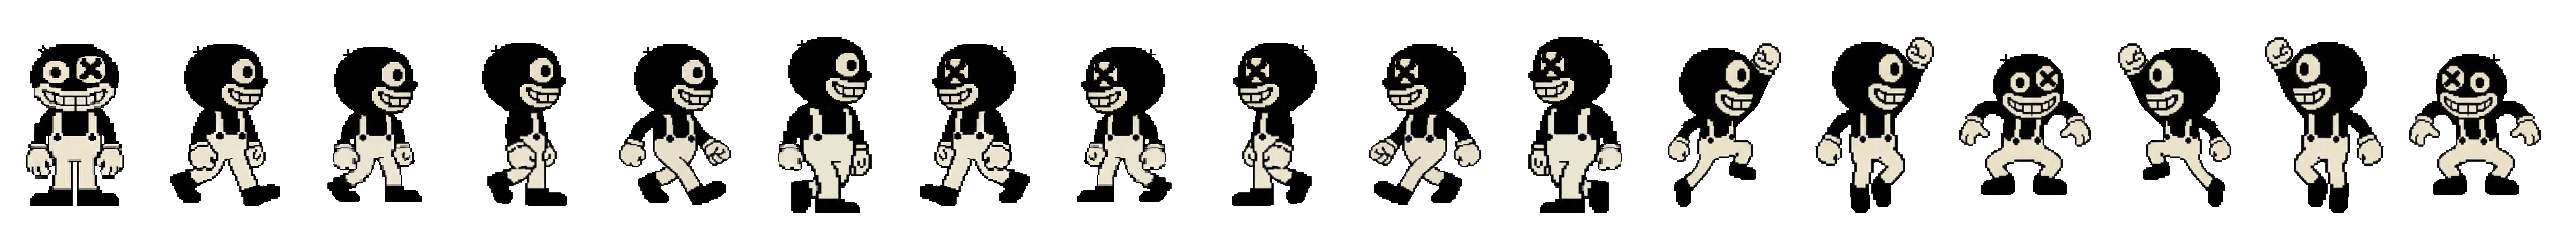
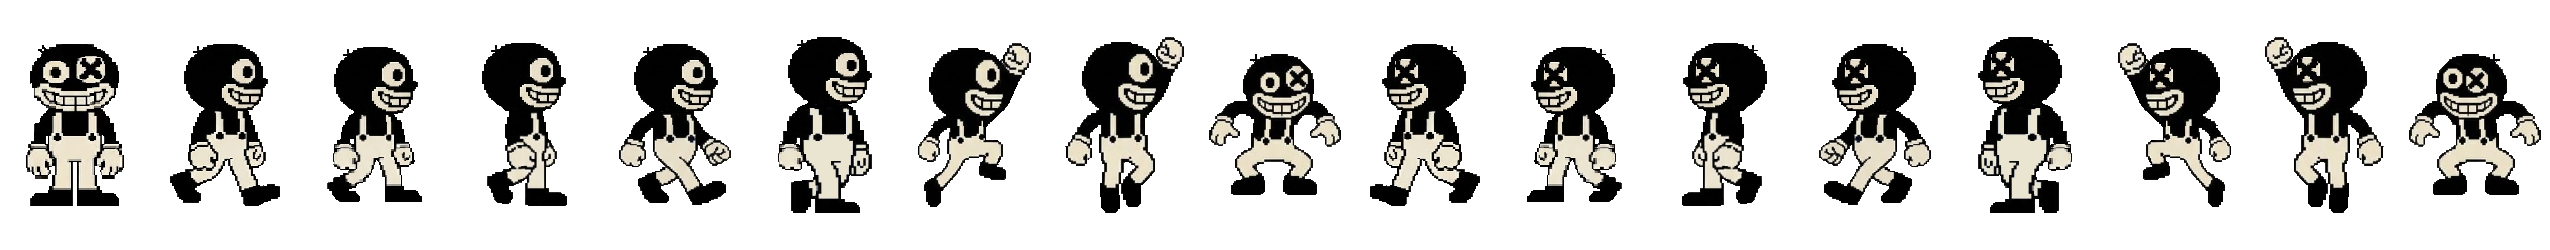
movimiento fluido del protagonista

diff --git a/core/src/main/java/io/github/escuela_tecnica_n35/entidades/Jugador.java b/core/src/main/java/io/github/escuela_tecnica_n35/entidades/Jugador.java
@@ -1,28 +1,44 @@
 package io.github.escuela_tecnica_n35.entidades;
 
-// herramientas que se encargan de "dibujar", recortar y mostrar los frames
 import com.badlogic.gdx.graphics.Texture;
 import com.badlogic.gdx.graphics.g2d.Animation;
 import com.badlogic.gdx.graphics.g2d.SpriteBatch;
 import com.badlogic.gdx.graphics.g2d.TextureRegion;
 
 public class Jugador extends Entidad {
-	
-	private int monedas;
-	private Inventario inventario;
-	private Item objetoActivo;
-	
-	// Variables para la animación de LibGDX
-		private Animation<TextureRegion> caminataAnimacion;
-		private float stateTime = 0f;
-	
-	public Jugador(String nombre, Posicion posicion, int vidaMax, float velocidad, int daño) {
-		
+
+    private int monedas;
+    private Inventario inventario;
+    private Item objetoActivo;
+
+    // Frames individuales
+    private TextureRegion frameQuieto;
+    private TextureRegion frameSaltoDerecha;
+    private TextureRegion frameCaidaDerechaInicio;
+    private TextureRegion frameCaidaDerechaEstatico;
+
+    private TextureRegion frameSaltoIzquierda;
+    private TextureRegion frameCaidaIzquierdaInicio;
+    private TextureRegion frameCaidaIzquierdaEstatico;
+
+    // Animaciones
+    private Animation<TextureRegion> animCaminarDerecha;
+    private Animation<TextureRegion> animCaminarIzquierda;
+
+    private float stateTime = 0f;
+    private float tiempoCaida = 0f; // Para controlar la transición durante la caída
+
+    // Estados
+    private boolean moviendose = false;
+    private boolean mirandoIzquierda = false;
+    private boolean enElPiso = true;
+    private float velocidadY = 0f;
+
+    public Jugador(String nombre, Posicion posicion, int vidaMax, float velocidad, int daño) {
         super(nombre, posicion, vidaMax, velocidad, daño);
         this.monedas = 0;
         this.inventario = new Inventario();
-        
-     // Cargar y configurar la animación del Spritesheet
+
         Texture walkSheet = new Texture("frames.png");
         int FRAME_COLS = 17;
         int FRAME_ROWS = 1;
@@ -33,78 +49,132 @@ public class Jugador extends Entidad {
             walkSheet.getHeight() / FRAME_ROWS
         );
 
-        TextureRegion[] walkFrames = new TextureRegion[FRAME_COLS];
-        for (int j = 0; j < FRAME_COLS; j++) {
-            walkFrames[j] = tmp[0][j];
+        // Frame 0: Quieto
+        frameQuieto = tmp[0][0];
+
+        // Frames 1 a 5: Caminata Derecha (5 frames)
+        TextureRegion[] framesDerecha = new TextureRegion[5];
+        for (int i = 0; i < 5; i++) {
+            framesDerecha[i] = tmp[0][i + 1];
+        }
+        animCaminarDerecha = new Animation<TextureRegion>(0.09f, framesDerecha);
+
+        // Frame 6: Salto Derecha
+        frameSaltoDerecha = tmp[0][6];
+
+        // Frames 7 y 8: Caída Derecha (Instante inicial vs Estático)
+        frameCaidaDerechaInicio = tmp[0][7];
+        frameCaidaDerechaEstatico = tmp[0][8];
+
+        // Frames 9 a 13: Caminata Izquierda (5 frames)
+        TextureRegion[] framesIzquierda = new TextureRegion[5];
+        for (int i = 0; i < 5; i++) {
+            framesIzquierda[i] = tmp[0][i + 9];
+        }
+        animCaminarIzquierda = new Animation<TextureRegion>(0.09f, framesIzquierda);
+
+        // Frame 14: Salto Izquierda
+        frameSaltoIzquierda = tmp[0][14];
+
+        // Frames 15 y 16: Caída Izquierda (Instante inicial vs Estático)
+        frameCaidaIzquierdaInicio = tmp[0][15];
+        frameCaidaIzquierdaEstatico = tmp[0][16];
+    }
+
+    public void setEstado(boolean moviendose, boolean mirandoIzquierda, boolean enElPiso, float velocidadY) {
+        if (this.enElPiso != enElPiso || this.mirandoIzquierda != mirandoIzquierda) {
+            stateTime = 0f;
+            tiempoCaida = 0f;
+        }
+        
+        this.moviendose = moviendose;
+        this.mirandoIzquierda = mirandoIzquierda;
+        this.enElPiso = enElPiso;
+        this.velocidadY = velocidadY;
+    }
+
+    public void render(SpriteBatch batch, float delta) {
+        TextureRegion frameActual;
+
+        if (!enElPiso) {
+            // EN EL AIRE
+            if (velocidadY >= 0) {
+                // Impulso hacia arriba: Frame de Salto
+                tiempoCaida = 0f;
+                frameActual = mirandoIzquierda ? frameSaltoIzquierda : frameSaltoDerecha;
+            } else {
+                // Descendiendo
+                tiempoCaida += delta;
+
+                // Sostiene el primer frame de caída por 0.12 segundos y luego pasa al estático
+                if (tiempoCaida < 0.3f) {
+                    frameActual = mirandoIzquierda ? frameCaidaIzquierdaInicio : frameCaidaDerechaInicio;
+                } else {
+                    frameActual = mirandoIzquierda ? frameCaidaIzquierdaEstatico : frameCaidaDerechaEstatico;
+                }
+            }
+        } else if (moviendose) {
+            // EN EL PISO CAMINANDO
+            stateTime += delta;
+            if (mirandoIzquierda) {
+                frameActual = animCaminarIzquierda.getKeyFrame(stateTime, true);
+            } else {
+                frameActual = animCaminarDerecha.getKeyFrame(stateTime, true);
+            }
+        } else {
+            // EN EL PISO QUIETO
+            stateTime = 0f;
+            tiempoCaida = 0f;
+            frameActual = frameQuieto;
         }
 
-        // Se asigna la animación (0.05 segundos por frame)
-        this.caminataAnimacion = new Animation<TextureRegion>(0.05f, walkFrames);
+        batch.draw(frameActual, getPosicion().getX(), getPosicion().getY());
     }
-	
-	// Método para dibujar al jugador animado en pantalla
-	public void render(SpriteBatch batch, float delta) {
-		stateTime += delta;
-		TextureRegion frameActual = caminataAnimacion.getKeyFrame(stateTime, true);
-		
-		// Usa las coordenadas X e Y guardadas en el objeto Posicion
-		batch.draw(frameActual, getPosicion().getX(), getPosicion().getY());
-	}
-        
-    }
-	
+
 	//----------------------------\/EFECTOS A VIDA\/-----------------------------
 	
 	public void atacar(Entidad objetivo) {
-        objetivo.recibirDaño(getDaño());
-    }
+		objetivo.recibirDaño(getDaño());
+	}
 	
 	public void aumentarVidaMax(Entidad objetivo) {
-        objetivo.recibirDaño(getVidaMax());
-    }
+		objetivo.recibirDaño(getVidaMax());
+	}
 	
 	//----------------------------/\EFECTOS A VIDA/\-----------------------------
 	
 	//----------------------------\/MONEDAS\/-----------------------------
 	
 	public int agarrarMonedas(int monedasGanadas) {
-		
 		return monedas += monedasGanadas;
-    }
+	}
 	
 	public int restarMonedas(int monedasPerdidas) {
-		
-		if(monedas >= monedasPerdidas) {
+		if (monedas >= monedasPerdidas) {
 			monedas -= monedasPerdidas;
-			
 		}
-		
-		
 		return monedas;
-    }
+	}
 	
 	public int getMonedas() {
-        return monedas;
-    }
+		return monedas;
+	}
 	
 	//----------------------------/\MONEDAS/\-----------------------------
 	
 	//----------------------------\/OBJETO ACTIVO\/-----------------------------
 	
 	public Item getObjetoActivo() {
-        return objetoActivo;
-    }
+		return objetoActivo;
+	}
 	
 	//----------------------------/\OBJETO ACTIVO/\-----------------------------
 	
 	//----------------------------\/INVENTARIO\/-----------------------------
 	
 	public Inventario getInventario() {
-        return inventario;
-    }
+		return inventario;
+	}
 	
 	//----------------------------/\INVENTARIO/\-----------------------------
-	
-	
-	
 }

diff --git a/core/src/main/java/io/github/escuela_tecnica_n35/Main_game.java b/core/src/main/java/io/github/escuela_tecnica_n35/Main_game.java
@@ -3,19 +3,16 @@ package io.github.escuela_tecnica_n35;
 import com.badlogic.gdx.ApplicationAdapter;
 import com.badlogic.gdx.Gdx;
 import com.badlogic.gdx.Input;
-import com.badlogic.gdx.graphics.Texture;
 import com.badlogic.gdx.graphics.g2d.SpriteBatch;
 import com.badlogic.gdx.utils.ScreenUtils;
 
-//Importamos las clases de otros paquetes
 import io.github.escuela_tecnica_n35.entidades.Jugador;
 import io.github.escuela_tecnica_n35.entidades.Posicion;
 import io.github.escuela_tecnica_n35.juego.Juego;
 
 public class Main_game extends ApplicationAdapter {
-	
+    
     private SpriteBatch batch;
-    private Texture image;
     
     private Jugador jugador;
     private Juego juego;
@@ -25,11 +22,12 @@ public class Main_game extends ApplicationAdapter {
     private float gravedad;
     private float pisoY;
     
+    private boolean mirandoIzquierda = false;
+
     @Override
     public void create() {
 
         batch = new SpriteBatch();
-        image = new Texture("KMD.jpeg");
 
         Posicion posicionInicial = new Posicion(140, 50);
 
@@ -56,77 +54,63 @@ public class Main_game extends ApplicationAdapter {
 
         float delta = Gdx.graphics.getDeltaTime();
 
-        ScreenUtils.clear(0.15f, 0.15f, 0.2f, 1f); // "Limpia la pantalla despues de cada frame"
+        ScreenUtils.clear(0.15f, 0.15f, 0.2f, 1f);
+
+        boolean seMueve = false;
 
         // MOVIMIENTO HORIZONTAL
-
         if (Gdx.input.isKeyPressed(Input.Keys.D)) {
-
-            jugador.getPosicion().moverX(
-                (float) (jugador.getVelocidad() * delta)
-            );
+            jugador.getPosicion().moverX((float) (jugador.getVelocidad() * delta));
+            seMueve = true;
+            mirandoIzquierda = false;
         }
 
         if (Gdx.input.isKeyPressed(Input.Keys.A)) {
-
-            jugador.getPosicion().moverX(
-                (float) (-jugador.getVelocidad() * delta)
-            );
-        }
-        
-        // CAÍDA RAPIDA
-        
-        if (Gdx.input.isKeyPressed(Input.Keys.S)
-                && jugador.getPosicion().getY() > pisoY) {
-
-            velocidadY -= aceleracionCaidaRapida * delta;
+            jugador.getPosicion().moverX((float) (-jugador.getVelocidad() * delta));
+            seMueve = true;
+            mirandoIzquierda = true;
         }
         
         // SALTO
-
-        if ((Gdx.input.isKeyJustPressed(Input.Keys.SPACE) ||
-        	     Gdx.input.isKeyJustPressed(Input.Keys.W))
-        	        && jugador.getPosicion().getY() == pisoY) {
-
-        	velocidadY = 400;
+        if ((Gdx.input.isKeyJustPressed(Input.Keys.SPACE) || Gdx.input.isKeyJustPressed(Input.Keys.W))
+                && jugador.getPosicion().getY() == pisoY) {
+            velocidadY = 400;
         }
 
-        // GRAVEDAD
+        float velocidadActualY = velocidadY;
+
+        // CAÍDA RÁPIDA Y GRAVEDAD
+        if (Gdx.input.isKeyPressed(Input.Keys.S) && jugador.getPosicion().getY() > pisoY) {
+            velocidadY -= aceleracionCaidaRapida * delta;
+        }
 
         velocidadY += gravedad * delta;
 
+        // MOVER POSICIÓN
         jugador.getPosicion().moverY(
             velocidadY * delta
         );
 
         // COLISIÓN CON EL PISO
-
-        if (jugador.getPosicion().getY() < pisoY) {
-
+        boolean enElPiso = false;
+        if (jugador.getPosicion().getY() <= pisoY) {
             jugador.getPosicion().setY(pisoY);
-
             velocidadY = 0;
+            velocidadActualY = 0;
+            enElPiso = true;
         }
 
+        // EVALUAR Y ACTUALIZAR ESTADO
+        jugador.setEstado(seMueve, mirandoIzquierda, enElPiso, velocidadActualY);
+
         // DIBUJAR
-
         batch.begin();
-
-        batch.draw(
-            image,
-            jugador.getPosicion().getX(),
-            jugador.getPosicion().getY(),
-            80,
-            140
-        );
-
+        jugador.render(batch, delta);
         batch.end();
     }
 
     @Override
     public void dispose() {
-
         batch.dispose();
-        image.dispose();
     }
 }
